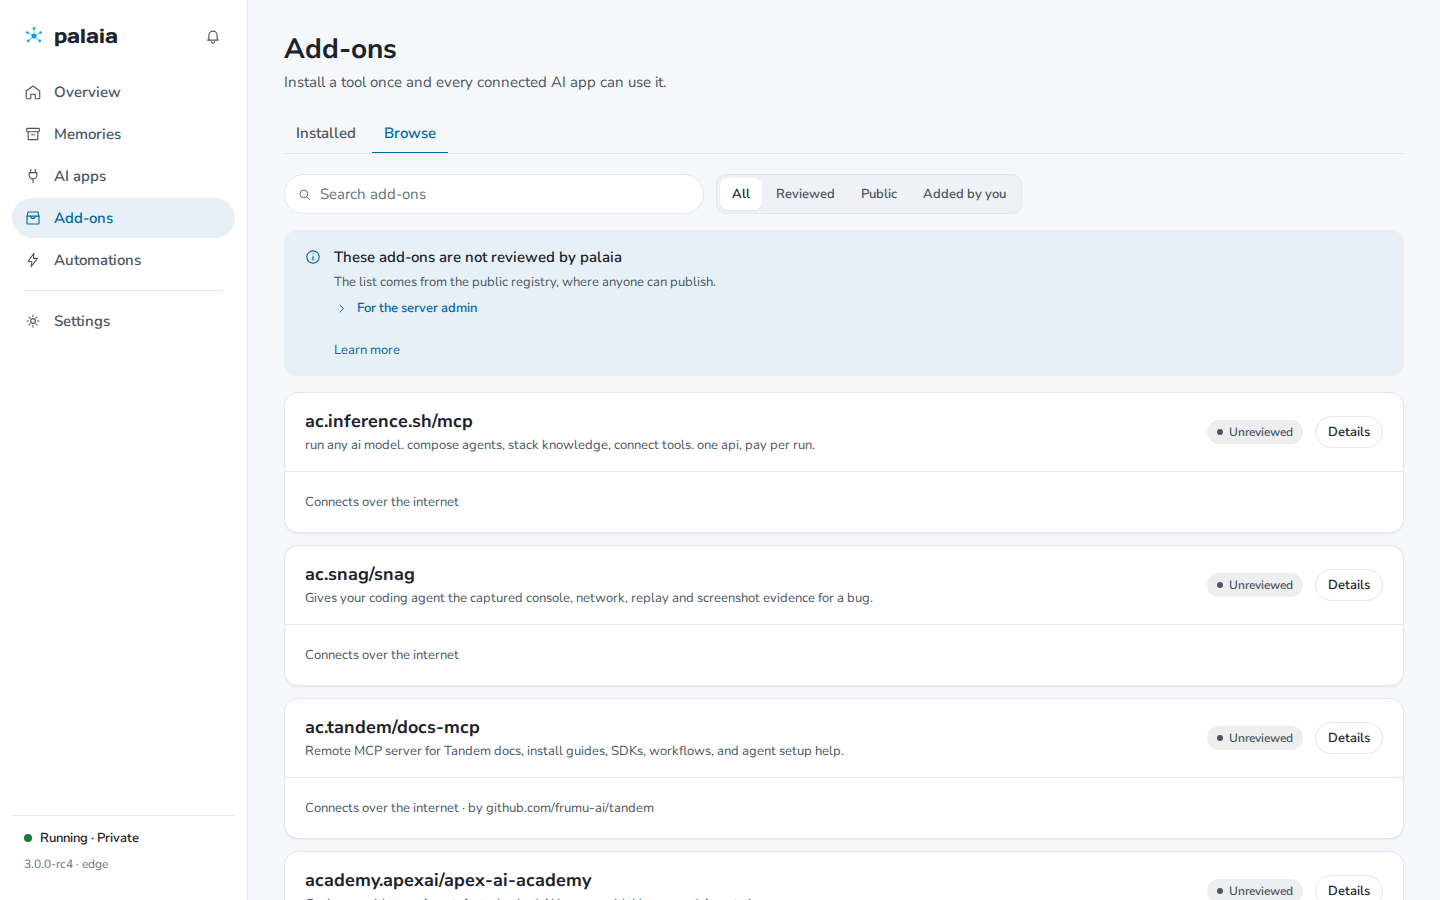
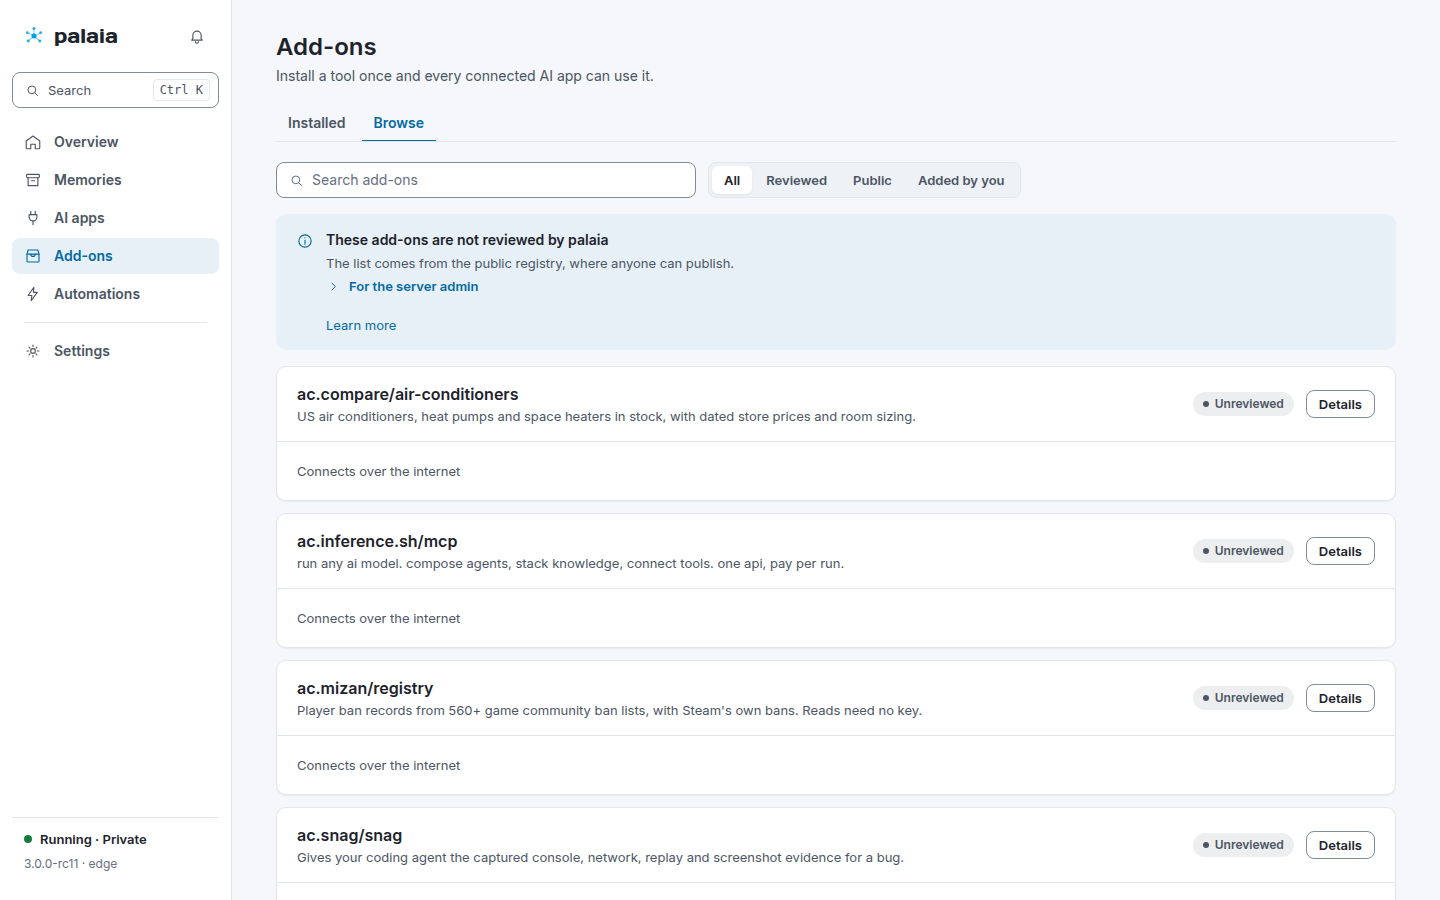
release(v3): 3.0.0-rc11 version, changelog, release notes and README screenshots

diff --git a/v3/server/src/palaia_hub/__init__.py b/v3/server/src/palaia_hub/__init__.py
@@ -17,6 +17,6 @@ letting the web/sdk/mcpb-bundle side of the release also anchor to it.
 
 from __future__ import annotations
 
-__version__ = "3.0.0-rc10"
+__version__ = "3.0.0-rc11"
 
 __all__ = ["__version__"]

diff --git a/v3/docs/release-notes/3.0.0-rc11.md b/v3/docs/release-notes/3.0.0-rc11.md
@@ -1,0 +1,73 @@
+# palaia 3.0.0-rc11 — eleventh v3 release candidate
+
+**The dashboard in a new, denser design with a command palette, and a setup guide that does more of the install itself.** Everything from [`3.0.0-rc10`](https://github.com/byte5ai/palaia/releases/tag/v3.3.0.0-rc10) is here; this note lists what changed since.
+
+> [!IMPORTANT]
+> **This is a release candidate, not a final release.** Run it, break it, tell us — and keep backups.
+
+## Try it
+
+On a Linux server (tested on Ubuntu 24.04):
+
+```bash
+curl -fsSL https://get.palaia.ai | sh
+```
+
+The installer sets up Docker and Tailscale if they are missing and prints the address of a one-time setup page and its code. Open the page in your browser, enter the code and log in to Tailscale; the page then offers cloud access for ChatGPT and Claude. When it prints `done ✓`, open the address it shows — usually `http://palaia/` — and palaia's setup takes you to a working AI connection.
+
+Already running Docker on a Linux machine at home? The container on its own:
+
+```bash
+docker run -d --name palaia \
+  --network host -e PALAIA_CLOUD_BIND=127.0.0.1 \
+  -v palaia_home:/data \
+  --restart unless-stopped \
+  --security-opt no-new-privileges:true --cap-drop ALL \
+  --read-only --tmpfs /tmp --tmpfs /run \
+  ghcr.io/byte5ai/palaia:beta
+```
+
+Then open `http://palaia.local:8420/` from another device on the same network. Docker Desktop (macOS, Windows), Docker Compose, Synology, Raspberry Pi and a VPS created with the server-creation file are in the [install guide](https://github.com/byte5ai/palaia/blob/main/v3/deploy/README.md).
+
+This tag publishes the container image as `ghcr.io/byte5ai/palaia:beta` and `ghcr.io/byte5ai/palaia:v3.3.0.0-rc11` (amd64 + arm64), and attaches the Raspberry Pi appliance image to this release.
+
+## New since rc10
+
+**Dashboard**
+- **Search and jump from the keyboard.** Ctrl+K (⌘K on a Mac) or `/` opens a command palette on every page: reach any page or Settings area, connect an AI app, switch the appearance, or find a note in any of your memories. The sidebar has a search field for it, the phone's top bar a search button (#680).
+- **A denser, calmer look.** Inter replaces Nunito Sans on the dashboard, setup, the installer's setup page, the sign-in page, the docs and the panels inside a chat. Text is 14 px, controls are 36 px high (44 px on a phone), buttons have 8 px corners (#642).
+- **AI apps is a table**, with a panel on the right for connecting one app. Tool sets, live sessions and the memory-use list are tables as well (#642, #672).
+- **Settings has its own navigation** beside the open area: General, Access & sign-in, Backups, Telegram, Advanced, About & updates (#642).
+- **The activity feed and a note's history say which AI app saved it** (#677).
+- **One click to add palaia to the Claude app**: with cloud access on, **Add to Claude** opens Claude's connector dialog with the name and palaia's public address filled in.
+
+**Setup with an AI assistant**
+- **The assistant runs the server part itself** when the chat app can run commands on your computer: the Claude app's Code tab or Codex in the ChatGPT app. The provider's web console stays the fallback (#653).
+- **The assistant opens the setup pages itself** when it can work a browser on your computer, and fills in what is not secret. It stops at every sign-in and password (#654).
+- **The guide asks for the Tailscale account first**, so the setup page's 30 minutes are not spent signing up (#650).
+
+**Install**
+- **The install goes on when the session that started it ends.** It runs on the server on its own and writes its progress to `/var/log/palaia-install.log`; running the command again shows that progress (#646).
+- **A failed join to the private network says why**, in Tailscale's own words and with the likely cause (#647).
+- **A missed setup page is one server restart away** on a server made with the setup file (#650).
+- **Cloud access can be turned on without a terminal on the server** (#649).
+
+**Fixed**
+- An empty memory no longer shows "1 note" (#642).
+- A captured note reads as text and facts, not as internal markers (#677).
+- Checkboxes, radio buttons and switches take a 44 px tap on a phone; field and button edges reach a contrast of 3:1 (#642).
+- The setup guide says which ChatGPT plans can save notes (#648), and every place it sends you to exists for this release (#651).
+
+The full list is in the [changelog](https://github.com/byte5ai/palaia/blob/main/v3/CHANGELOG.md).
+
+## Known gaps
+
+- An AI app that signs in with the owner's account instead of an access key appears in the activity feed without its name.
+- The new look reaches the docs at palaia.byte5.ai/docs with the site's next update.
+- Unchanged from rc8: the Raspberry Pi redirect was checked on an x86 test machine with the same units, not on Pi hardware; Synology's Container Manager with the host network was not checked.
+- Unchanged from rc8: the ChatGPT and Claude apps themselves, Tailscale's own service and Funnel, Claude Desktop installing the extension, and the server-creation file on a real cloud provider were not part of the checks; the test network ran a self-hosted control server (Headscale).
+- [`v3/RELEASING.md`](https://github.com/byte5ai/palaia/blob/main/v3/RELEASING.md) lists what still stands between this RC and 3.0.0.
+
+## Feedback
+
+Found a bug or something confusing? [Open an issue](https://github.com/byte5ai/palaia/issues). Security findings: please use [private vulnerability reporting](https://github.com/byte5ai/palaia/security/advisories/new).

diff --git a/v3/CHANGELOG.md b/v3/CHANGELOG.md
@@ -10,7 +10,11 @@ ADRs, phase-gate records, SPEC index docs, CI and release plumbing) are left
 out on purpose; they moved the project forward but nothing in them is a
 capability a user would notice.
 
-## Unreleased
+## 3.0.0-rc11 — 2026-11-26 (release candidate)
+
+The dashboard in a new, denser design with a command palette, and a setup
+guide that does more of the install itself. Still a pre-release — the
+`:beta` channel.
 
 ### Install
 
@@ -65,6 +69,31 @@ capability a user would notice.
 
 ### Dashboard
 
+- **Search and jump from the keyboard.** Ctrl+K (⌘K on a Mac) or `/` opens a
+  command palette on every page: type to reach any page or Settings area,
+  to connect an AI app or switch the appearance, and to find a note in any
+  of your memories. The sidebar has a search field for it, the phone's top
+  bar a search button. Before, the shortcut only jumped to the search box
+  of one memory. A note now has its own address, so a link can open it.
+  (#680)
+- **A denser, calmer look.** Inter replaces Nunito Sans on every surface:
+  the dashboard, setup, the installer's setup page, the sign-in page, the
+  docs and the panels inside a chat. Text is 14 px, controls are 36 px
+  high (44 px on a phone), and buttons have 8 px corners instead of the
+  pill shape. (#642)
+- **AI apps is a table.** One row per app with its state, how it connects
+  and when it was last used, grouped into "In use" and "Available". A
+  row opens a panel on the right with the steps to connect that app; the
+  panel has its own address. Tool sets, live sessions and the memory-use
+  list are tables as well. (#642, #672)
+- **Settings has its own navigation.** General, Access & sign-in, Backups,
+  Telegram, Advanced and About & updates sit beside the open area instead
+  of in one long page. (#642)
+- **The activity feed and a note's history say which AI app saved it.**
+  "Claude Code CLI updated Billing service" instead of "Saved Billing
+  service", and "Created by Claude Code CLI" in the history. An app that
+  signs in with the owner's account instead of an access key is still
+  shown without a name. (#677)
 - **One click to add palaia to the Claude app.** When cloud access is on,
   the **Connect an AI app** step and the AI apps page show an **Add to
   Claude** button. It opens Claude's Add custom connector dialog with the
@@ -74,6 +103,18 @@ capability a user would notice.
 
 ### Fixed
 
+- **An empty memory says it is empty.** A new memory showed "1 note"
+  because its own description file was counted. The count now holds only
+  your notes, and an empty memory explains how it fills. (#642)
+- **A captured note reads as text.** A note an AI app captured in passing
+  showed its internal markers (`[entity]`, `[raw]`, a hash). It now shows
+  what was said, what it is about, why it was kept and where it came from.
+  The ready-made automation for such notes is named in plain words too.
+  (#677)
+- **Checkboxes, radio buttons and switches can be tapped on a phone.** Each
+  takes a tap in a 44 px area around it. (#642)
+- **The edges of fields and buttons are easier to see.** Their border now
+  reaches a contrast of 3:1 against the page in both appearances. (#642)
 - **The setup guide says which ChatGPT plans can save notes.** On a ChatGPT
   plan that can only look things up, the install guide let people pick
   ChatGPT and then fail its last check. It now asks for the plan first and

diff --git a/v3/docs/how-it-works.md b/v3/docs/how-it-works.md
@@ -8,7 +8,7 @@ to understand it before they trust it.
 ## What you get, in detail
 
 Grouped by what it does for you, not by what module it lives in. Every item below
-ships in `3.0.0-rc10` unless it says it is planned; the full list is in
+ships in `3.0.0-rc11` unless it says it is planned; the full list is in
 [`CHANGELOG.md`](../CHANGELOG.md).
 
 ### Memory that outlives the session
@@ -97,7 +97,8 @@ ships in `3.0.0-rc10` unless it says it is planned; the full list is in
 ### Operations you can live with
 
 - **A real dashboard.** Setup wizard, memory explorer, per-client connect pages,
-  marketplace, profile editor, health. Three in-chat MCP Apps (hub status, recall
+  marketplace, profile editor, health, and a command palette (Ctrl+K / ⌘K) that
+  reaches every page and finds a note in any memory. Three in-chat MCP Apps (hub status, recall
   explorer, review queue) cover the everyday checks without a browser tab.
 - **One-click backup** of the entire hub home, and a documented offline restore
   ([backup & restore](backup-restore.md)). Backups can also run **on a schedule**

diff --git a/v3/site/docs/src/content/docs/memory.md b/v3/site/docs/src/content/docs/memory.md
@@ -128,6 +128,11 @@ when it checks your memory before answering something on your behalf; see
 [Your first shared memory](/first-shared-memory/) for what that looks
 like from the AI's side.
 
+To search every memory at once, press Ctrl+K (⌘K on a Mac) or `/` anywhere
+in the dashboard, or use the search field at the top of the sidebar. Type a
+few letters and pick a note: it opens in its memory. The same field takes
+you to any page of the dashboard.
+
 When an AI tool looks something up and several notes answer about equally
 well, the ones your tools keep pulling up come first — and a note nobody has
 asked for in months slowly gives that place back. Nothing is deleted or

diff --git a/README.md b/README.md
@@ -41,7 +41,7 @@ Think Home Assistant, for your AI tools.
 </p>
 
 > [!NOTE]
-> **palaia v3 is a release candidate (`3.0.0-rc10`).** Everything below works and is
+> **palaia v3 is a release candidate (`3.0.0-rc11`).** Everything below works and is
 > tested. Try it, keep backups, and [tell us what breaks](https://github.com/byte5ai/palaia/issues).
 > palaia v2 is [retired](#already-using-palaia-v2) and gets critical fixes only.
 

diff --git a/v3/README.md b/v3/README.md
@@ -1,6 +1,6 @@
 # palaia v3
 
-**Status: release candidate (`3.0.0-rc10`, see [VERSION](VERSION)).** This
+**Status: release candidate (`3.0.0-rc11`, see [VERSION](VERSION)).** This
 directory contains everything belonging to palaia v3 — a ground-up rewrite
 with a much larger scope than v2 ("Home Assistant for AI"). The Phase-5
 gate is held (`IMPLEMENTATION.md` §6, 2026-08-26; the two owner actions it
